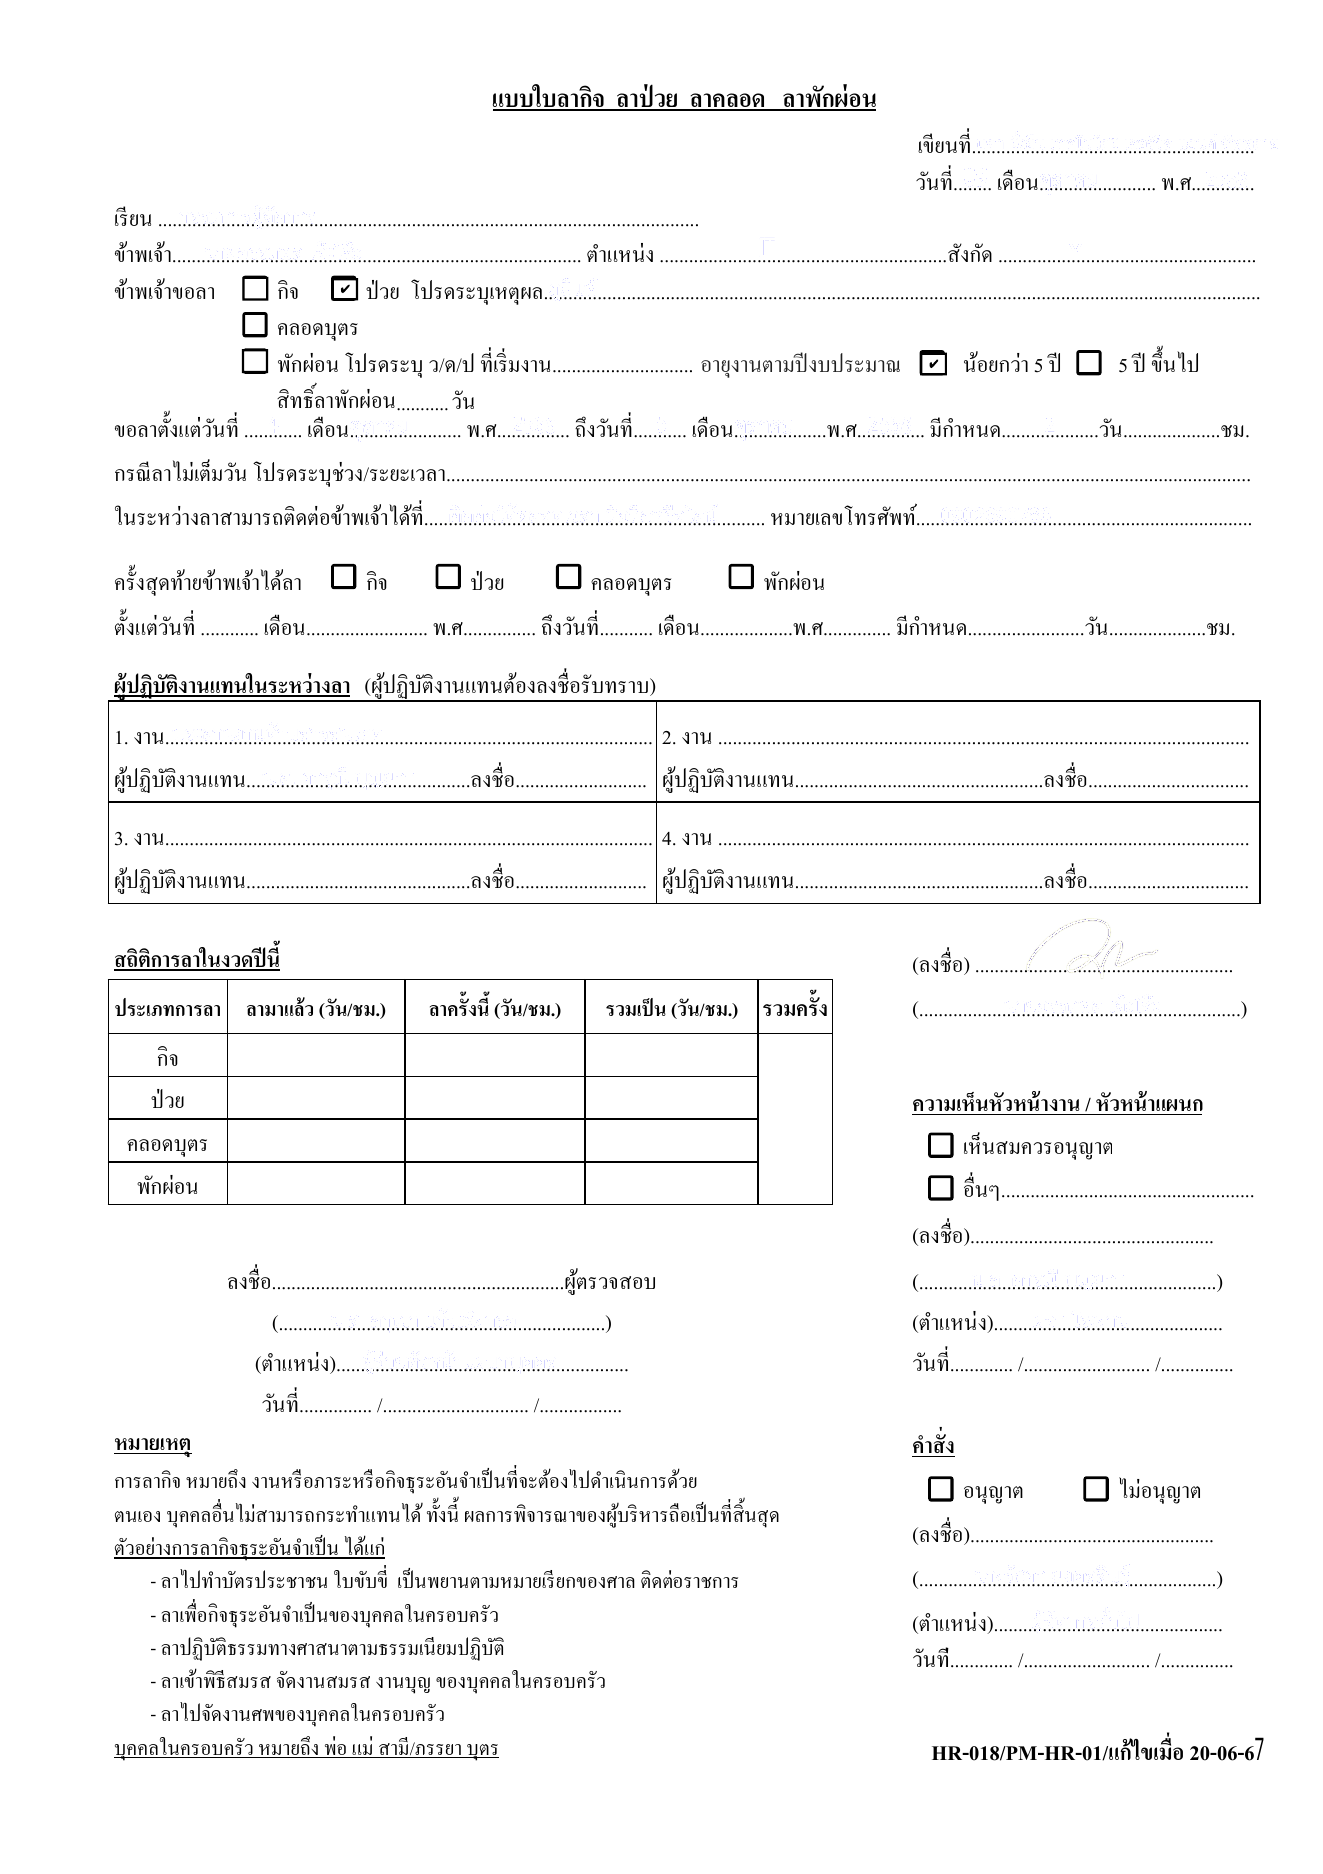
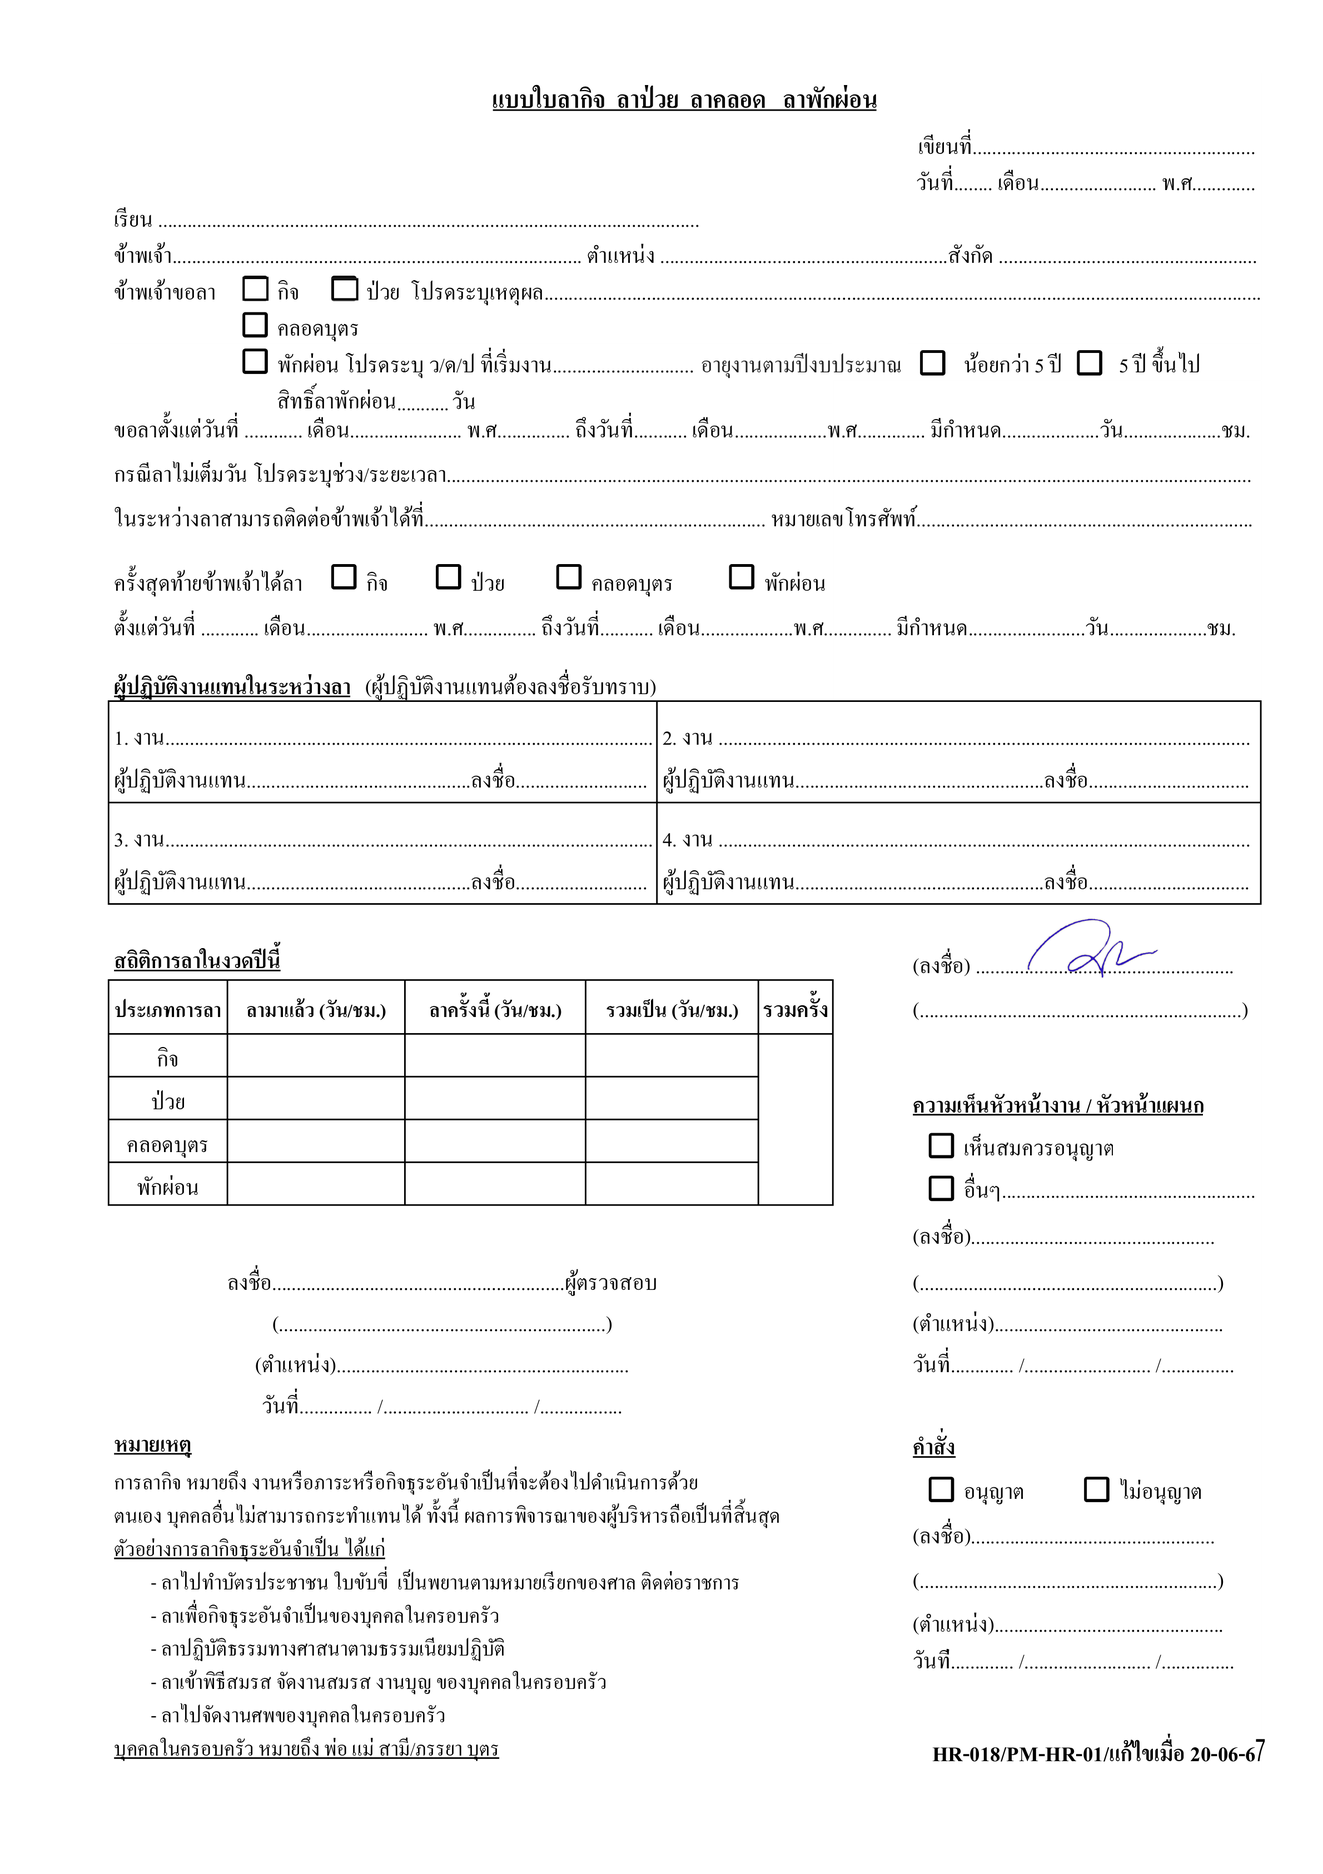
update

diff --git a/styles.css b/styles.css
@@ -4,9 +4,9 @@
 .print-stage .paper{padding:0;border:0;background:transparent;box-shadow:none;width:210mm;min-height:297mm;overflow:visible}
 .pdf-replica{position:relative;width:210mm;height:297mm;margin:0 auto;background:#fff;overflow:hidden;box-shadow:0 18px 45px rgba(15,23,42,.12)}
 .pdf-replica .template-img{position:absolute;inset:0;width:100%;height:100%;display:block;object-fit:fill;z-index:1}
-.pdf-value{position:absolute;z-index:2;display:block;white-space:nowrap;overflow:hidden;text-overflow:clip;font-family:"TH Sarabun New","Sarabun",Tahoma,sans-serif;font-size:3.75mm;line-height:1.05;color:#0645ff;text-align:center;background:rgba(255,255,255,.92);padding:0 .6mm}
-.pdf-value.tiny{font-size:3.35mm;color:#111;background:rgba(255,255,255,.96)}
-.pdf-check{position:absolute;z-index:3;display:grid;place-items:center;background:#fff;border:.62mm solid #111;color:#111;font-family:Arial,sans-serif;font-size:4.2mm;font-weight:900;line-height:1}
+.pdf-value{position:absolute;z-index:2;display:block;white-space:nowrap;overflow:hidden;text-overflow:clip;font-family:"TH Sarabun New","Sarabun",Tahoma,sans-serif;font-size:3.75mm;line-height:1.05;color:#111;text-align:center;background:transparent;padding:0 .4mm}
+.pdf-value.tiny{font-size:3.35mm;color:#111;background:transparent}
+.pdf-check{position:absolute;z-index:3;display:grid;place-items:center;background:transparent;border:0;color:#111;font-family:Arial,sans-serif;font-size:4.4mm;font-weight:900;line-height:1}
 @media print{
   @page{size:A4 portrait;margin:0}
   html,body{width:210mm;height:297mm;margin:0!important;padding:0!important;background:#fff!important}
@@ -14,6 +14,6 @@
   .app-shell,.main,.print-stage{display:block!important;width:210mm!important;height:297mm!important;margin:0!important;padding:0!important;max-width:none!important;min-height:0!important;overflow:hidden!important;background:#fff!important}
   .paper{width:210mm!important;height:297mm!important;min-height:297mm!important;margin:0!important;padding:0!important;border:0!important;box-shadow:none!important;background:#fff!important;overflow:hidden!important}
   .pdf-replica{width:210mm!important;height:297mm!important;margin:0!important;box-shadow:none!important;page-break-after:avoid;break-after:avoid}
-  .pdf-value{-webkit-print-color-adjust:exact;print-color-adjust:exact;color:#0645ff!important;background:rgba(255,255,255,.92)!important}
-  .pdf-check{-webkit-print-color-adjust:exact;print-color-adjust:exact;background:#fff!important;color:#111!important;border-color:#111!important}
+  .pdf-value{-webkit-print-color-adjust:exact;print-color-adjust:exact;color:#111!important;background:transparent!important}
+  .pdf-check{-webkit-print-color-adjust:exact;print-color-adjust:exact;background:transparent!important;color:#111!important;border-color:transparent!important}
 }

diff --git a/README.md b/README.md
@@ -1,54 +1,35 @@
-# HR-018 ระบบใบลาออนไลน์
+# HR-018 Leave Web App — Print Exact Template
 
-เว็บแอปแบบ Static สำหรับกรอกและพิมพ์ใบลา อ้างอิงฟอร์ม HR-018 ใบลากิจ ลาป่วย ลาคลอด ลาพักผ่อน
+เว็บแอปใบลา HR-018 สำหรับกรอกข้อมูล บันทึกรายการ และพิมพ์แบบฟอร์มใบลา
 
-## ไฟล์หลัก
+## จุดสำคัญของเวอร์ชันนี้
 
-- `index.html` หน้าเว็บหลัก
-- `styles.css` รูปแบบหน้าจอและแบบพิมพ์
-- `app.js` ระบบบันทึก/แก้ไข/ลบ/ค้นหา/Export
-- `.github/workflows/deploy-pages.yml` GitHub Actions สำหรับ Deploy ไป GitHub Pages
-- `.nojekyll` ป้องกัน GitHub Pages แปลงไฟล์ด้วย Jekyll
+- หน้า `แบบฟอร์มพิมพ์` ใช้ภาพพื้นหลังจากไฟล์ PDF แนบ `HR-018 ใบลา 20-06-67.pdf`
+- ขนาดพิมพ์เป็น A4 portrait 210mm x 297mm
+- ตั้งค่า `@page` เป็น margin 0 เพื่อให้ตำแหน่งตรงกับแบบฟอร์มมากที่สุด
+- ช่องข้อมูลที่กรอกจากระบบถูก overlay ลงบนตำแหน่งเดิมของฟอร์ม
+- checkbox ใช้เครื่องหมายถูกวางบนช่องเดิม ไม่วาดกรอบซ้ำ
 
-## วิธีใช้งานบนเครื่อง
+## วิธีใช้งาน
 
-1. เปิด `index.html` ด้วย Chrome / Edge
-2. กรอกข้อมูลในเมนู `สร้างใบลา`
+1. เปิด `index.html` ด้วย Browser
+2. กรอกข้อมูลใบลา
 3. กด `บันทึกใบลา`
-4. ไปที่ `แบบฟอร์มพิมพ์` แล้วกด `พิมพ์ / Save PDF`
+4. ไปที่เมนู `แบบฟอร์มพิมพ์`
+5. กด `พิมพ์ / Save PDF`
 
-## Deploy GitHub Pages
+## ตั้งค่าการพิมพ์ที่แนะนำ
 
-### วิธีที่ 1: Upload ผ่านหน้าเว็บ GitHub
+เพื่อให้เหมือนต้นฉบับมากที่สุด ให้ตั้งค่าก่อนพิมพ์ดังนี้:
 
-1. สร้าง Repository ใหม่ เช่น `hr-leave-webapp`
-2. Upload ไฟล์ทั้งหมดในโฟลเดอร์นี้ขึ้น Repository
-3. ไปที่ `Settings` > `Pages`
-4. Source เลือก `GitHub Actions`
-5. ไปที่แท็บ `Actions` แล้วรอ Workflow `Deploy static site to GitHub Pages` ทำงานเสร็จ
-6. เปิด URL ที่ GitHub Pages แสดงให้
+- Paper: A4
+- Scale: 100%
+- Margins: None / ไม่มีขอบ
+- Background graphics: เปิด
+- Headers and footers: ปิด
 
-### วิธีที่ 2: ใช้ Git command
+> หมายเหตุ: ความตรง 100% ยังขึ้นกับ Browser, Printer driver และการตั้งค่า scale/margin ของเครื่องพิมพ์ หากต้องการตรงแบบโรงพิมพ์ ให้ใช้ Chrome/Edge และตั้ง Scale 100%, Margins None เสมอ
 
-```bash
-git init
-git branch -M main
-git add .
-git commit -m "Deploy HR-018 leave web app"
-git remote add origin https://github.com/YOUR_USERNAME/hr-leave-webapp.git
-git push -u origin main
-```
+## GitHub Pages
 
-จากนั้นไปที่ `Settings` > `Pages` แล้วเลือก Source เป็น `GitHub Actions`
-
-## ความสามารถ
-
-- บันทึกใบลาในเครื่องด้วย LocalStorage
-- ค้นหา แก้ไข ลบ คัดลอกใบลา
-- Export ข้อมูลเป็น JSON และ CSV
-- คำนวณสถิติการลาในปีงบประมาณแบบอัตโนมัติจากรายการที่บันทึกไว้
-- พิมพ์เป็นฟอร์ม A4 ตามโครงเอกสาร HR-018
-
-## หมายเหตุ
-
-ข้อมูลจะถูกเก็บใน Browser เครื่องที่เปิดใช้งานเท่านั้น ถ้าต้องการใช้หลายเครื่องหรือมี Login/Role/Database ควรต่อ Backend เพิ่ม เช่น Laravel, Flask, Node.js หรือ Next.js + MySQL/PostgreSQL
+ชุดนี้เป็น Static Web App ไม่ต้อง build สามารถ deploy ผ่าน GitHub Pages ได้ทันที
